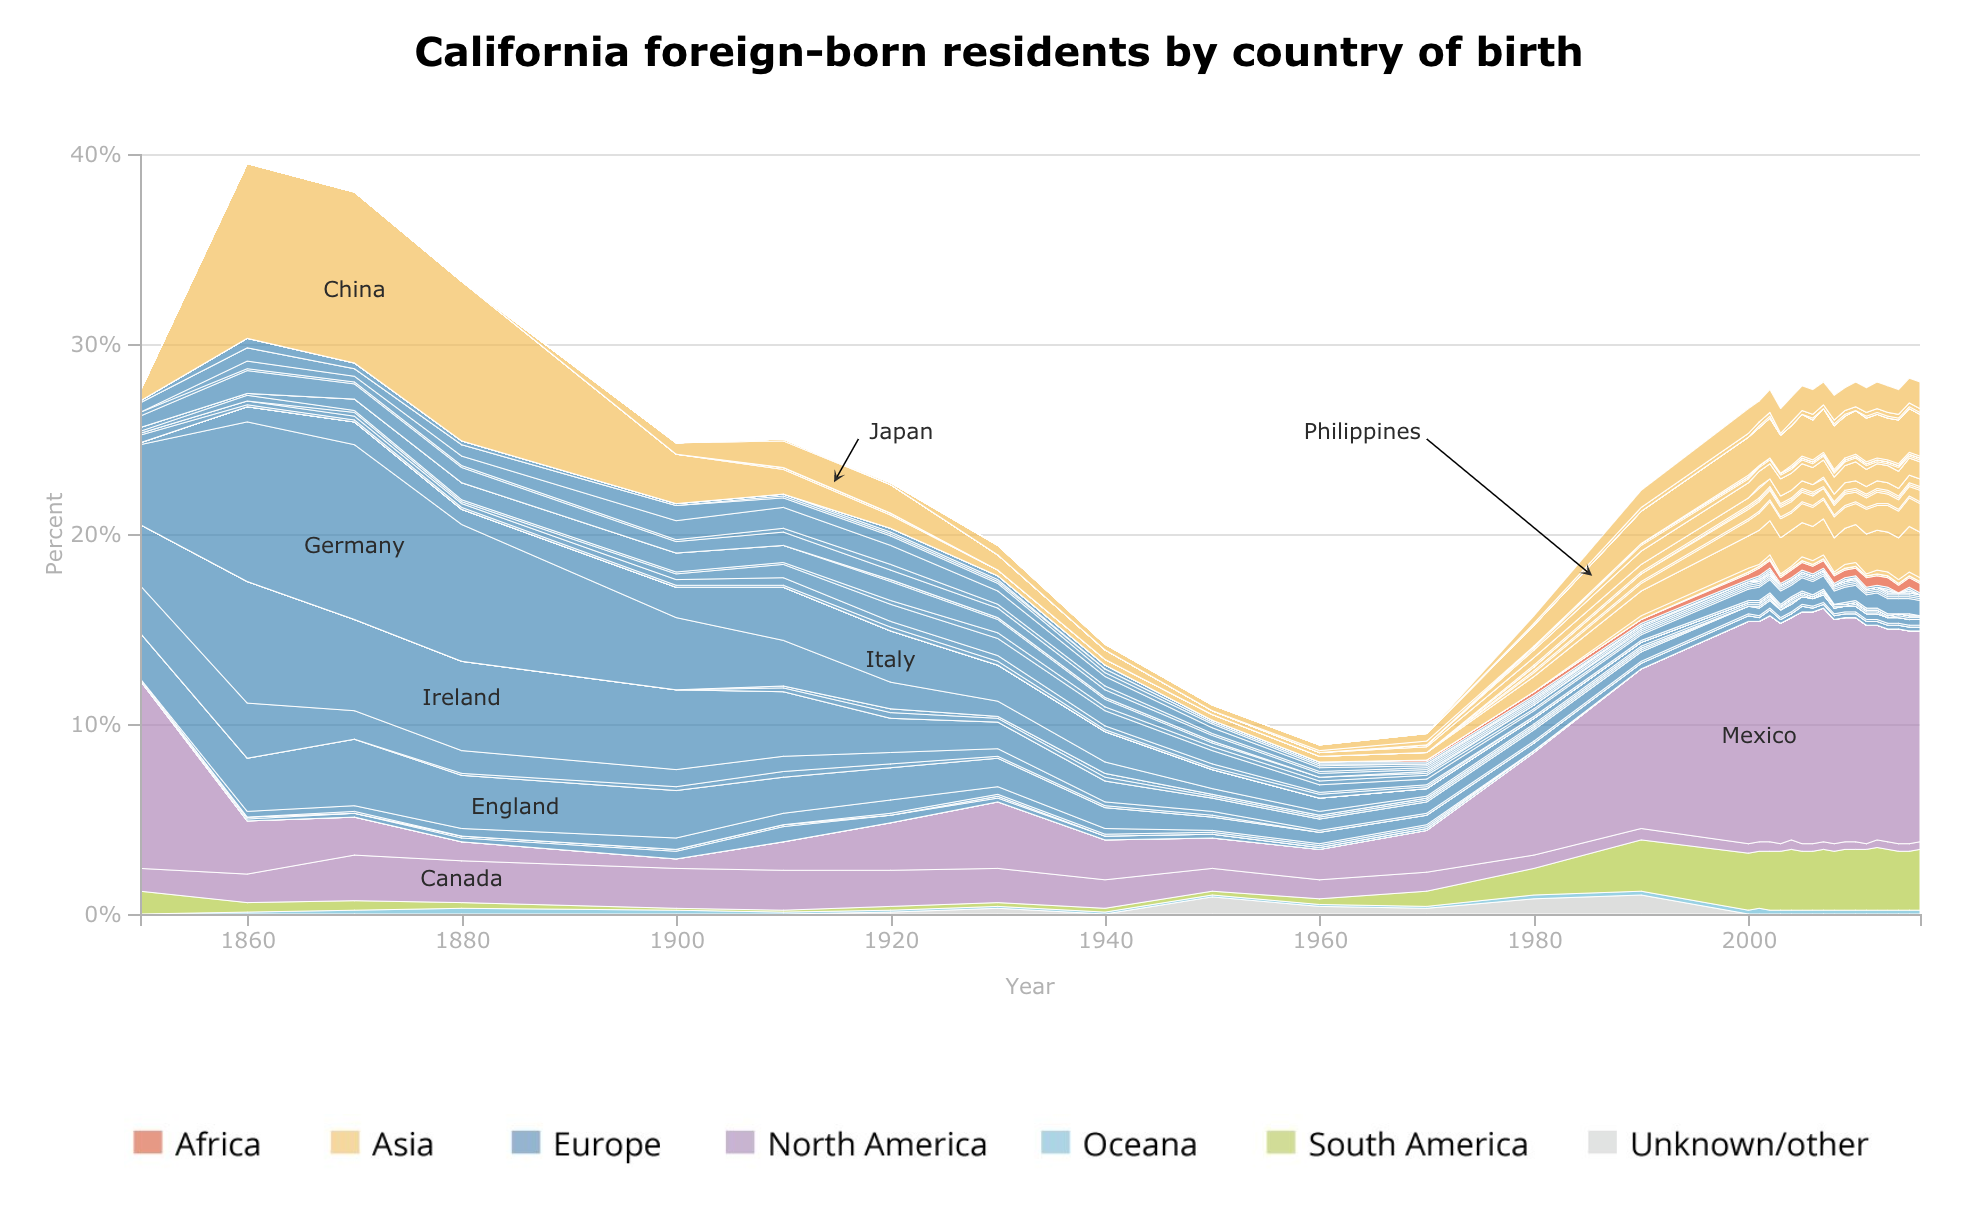
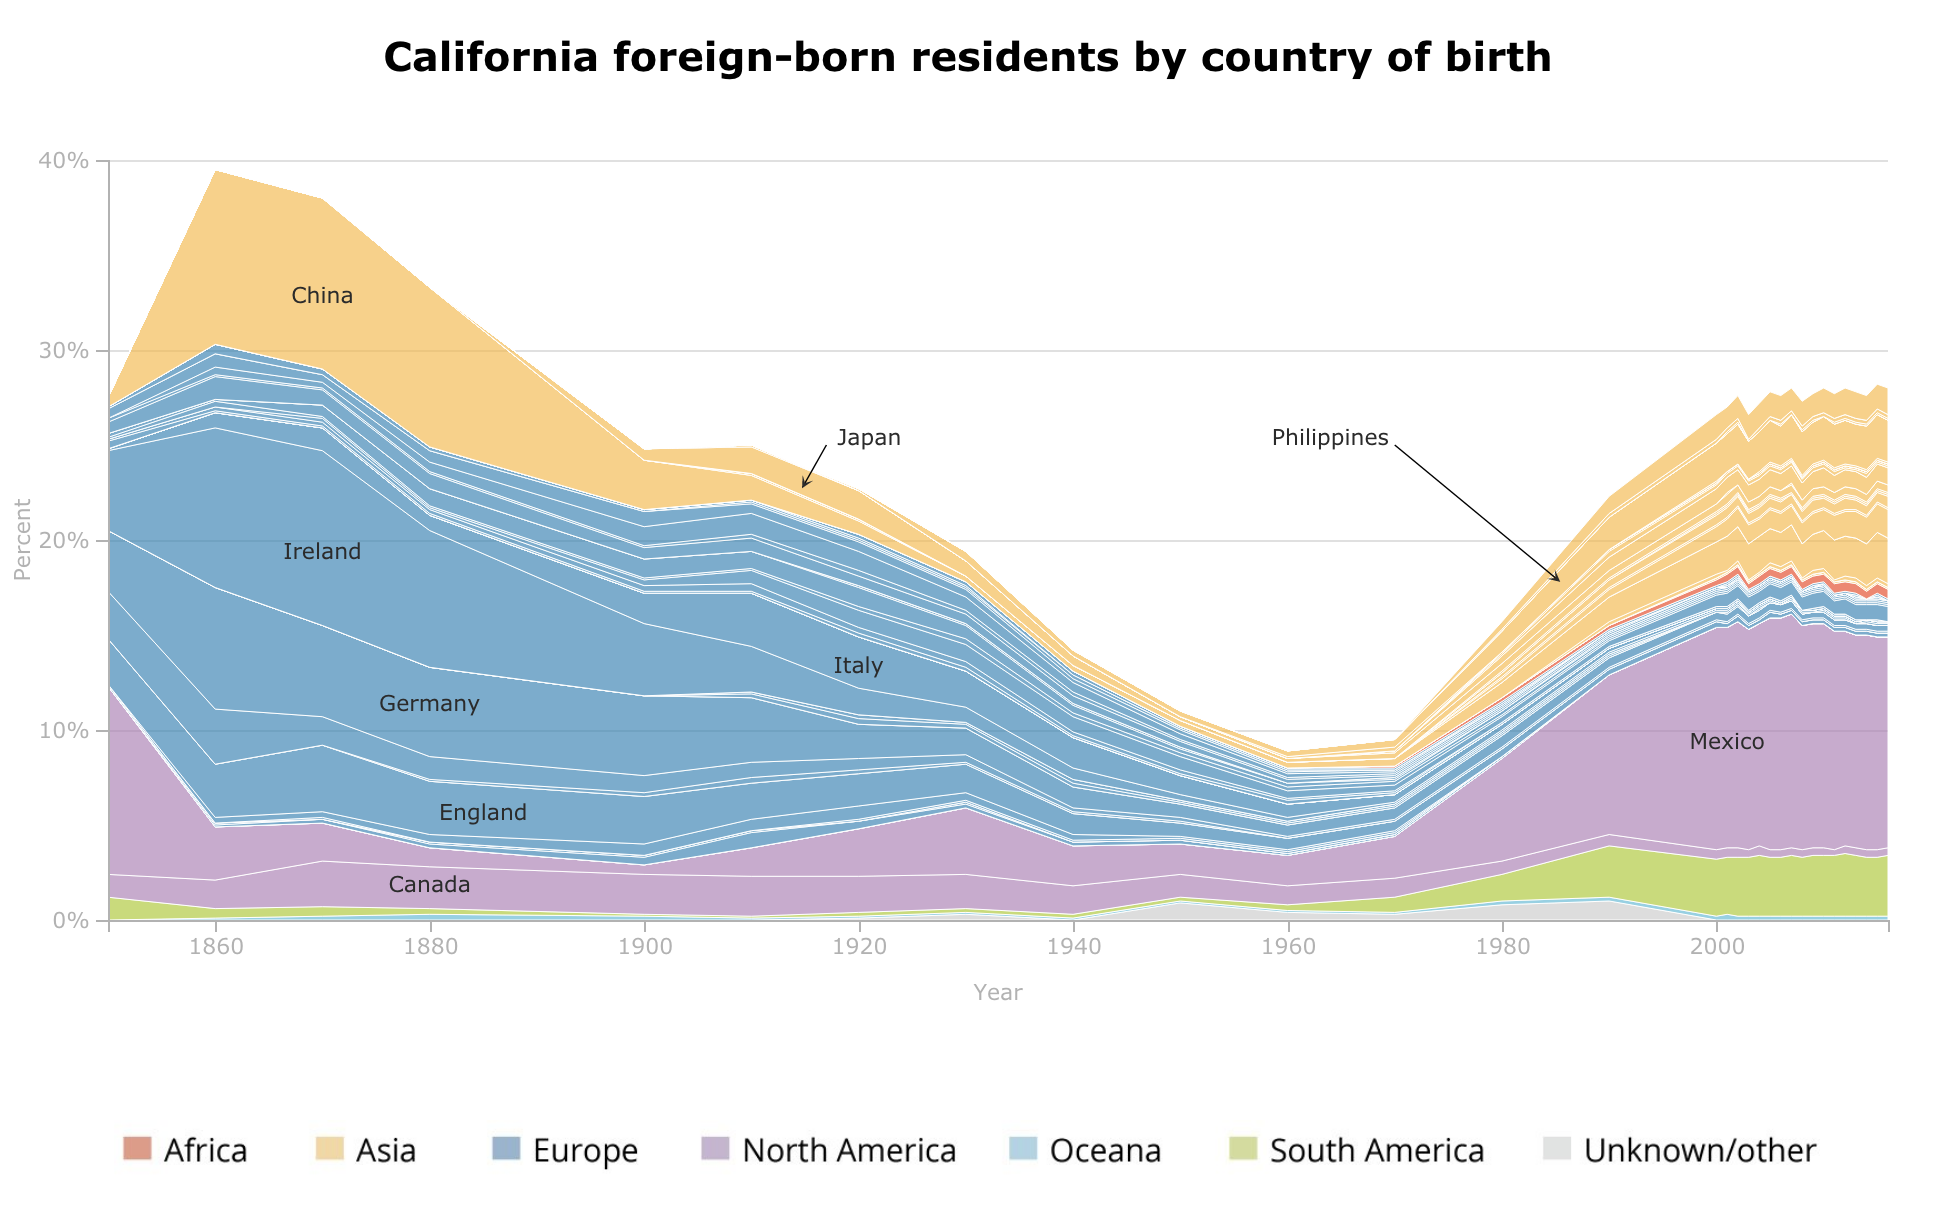
inverted labels

diff --git a/index.html b/index.html
@@ -94,8 +94,8 @@ div.tooltip {
   position: absolute;
   text-align: left;
   width: 150px;
-  height: 40px;
-  padding-top: 8px;
+  height: 45px;
+  padding-top: 6px;
   padding-left: 6px;
   padding-right: 4px;
   padding-bottom: 4px;
@@ -328,8 +328,8 @@ svg.append("defs")
 
 var annot = [
   { country: "China", year: "1870", percent: 0.325 },
-  { country: "Ireland", year: "1880", percent: 0.11 },
-  { country: "Germany", year: "1870", percent: 0.19 },
+  { country: "Germany", year: "1880", percent: 0.11 },
+  { country: "Ireland", year: "1870", percent: 0.19 },
   { country: "Canada", year: "1880", percent: 0.015 },
   { country: "England", year: "1885", percent: 0.0525 },
   { country: "Mexico", year: "2001", percent: 0.09 },
